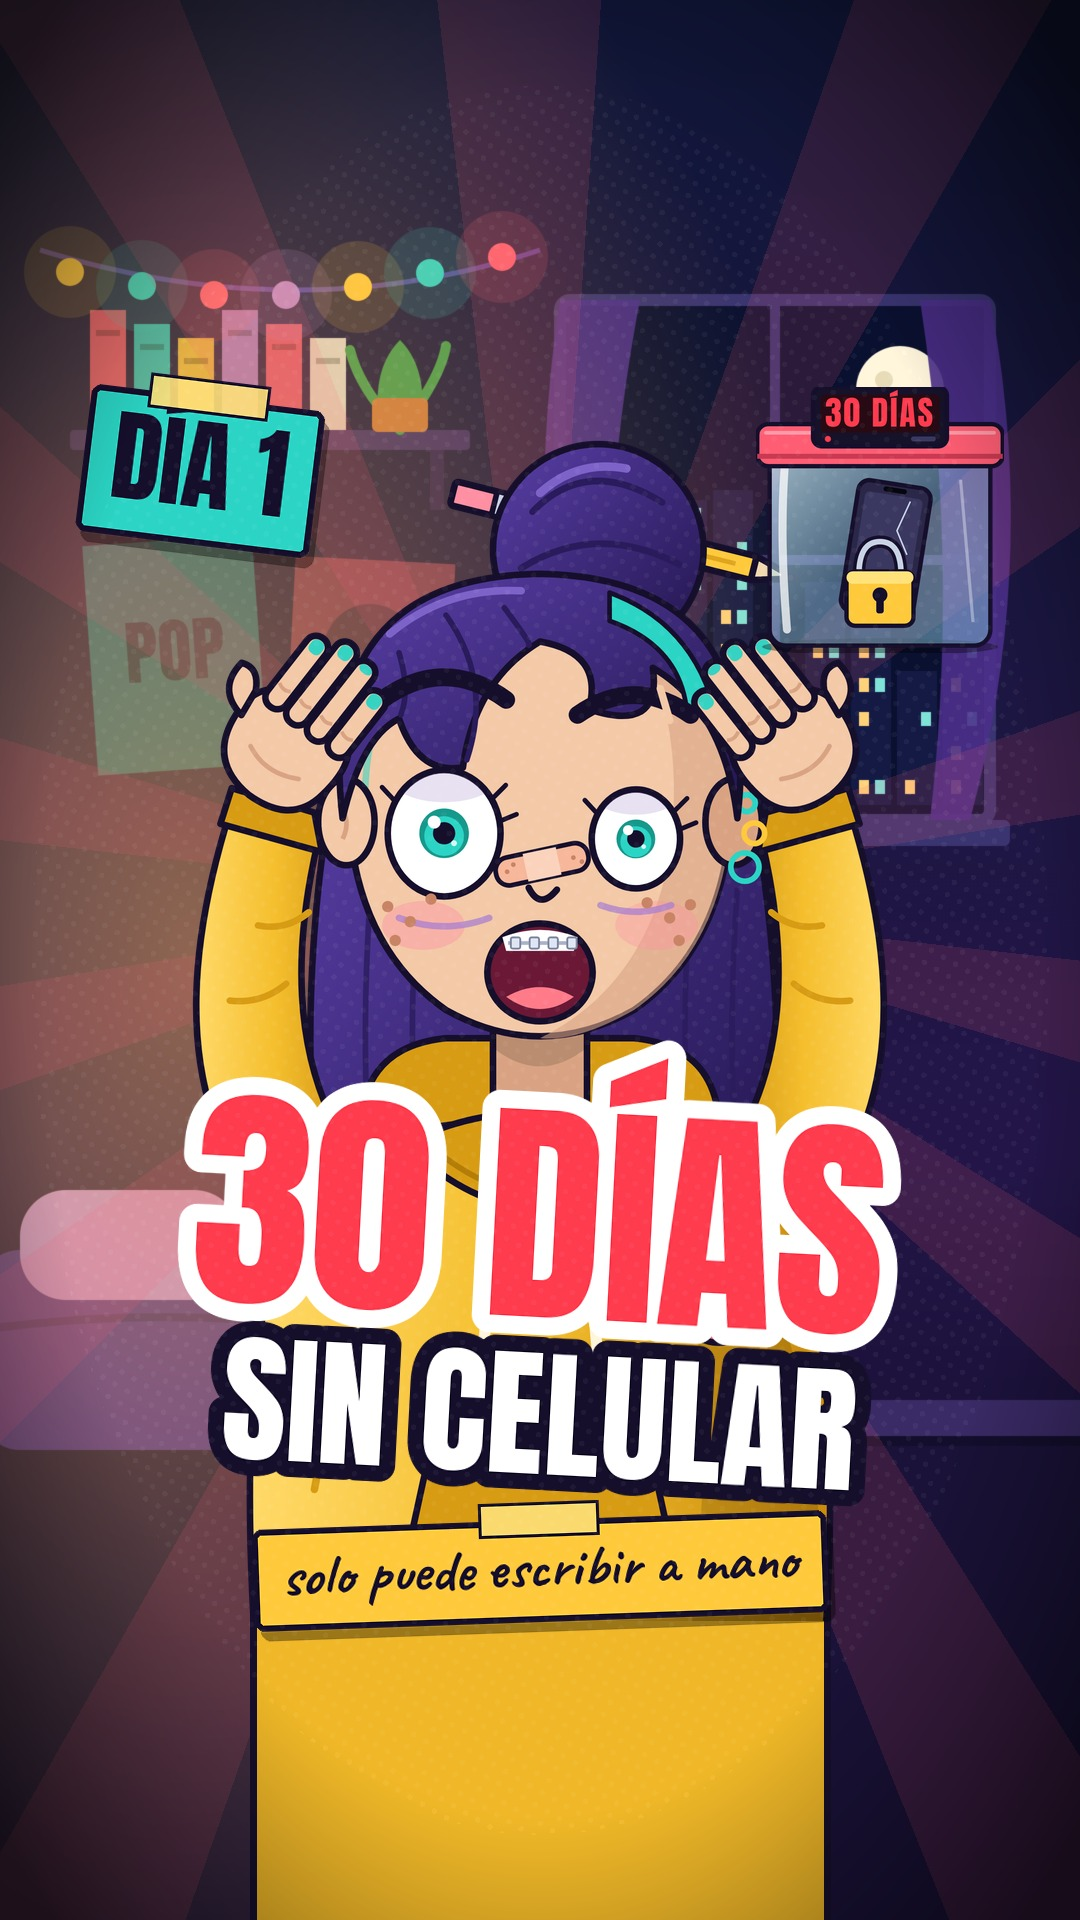
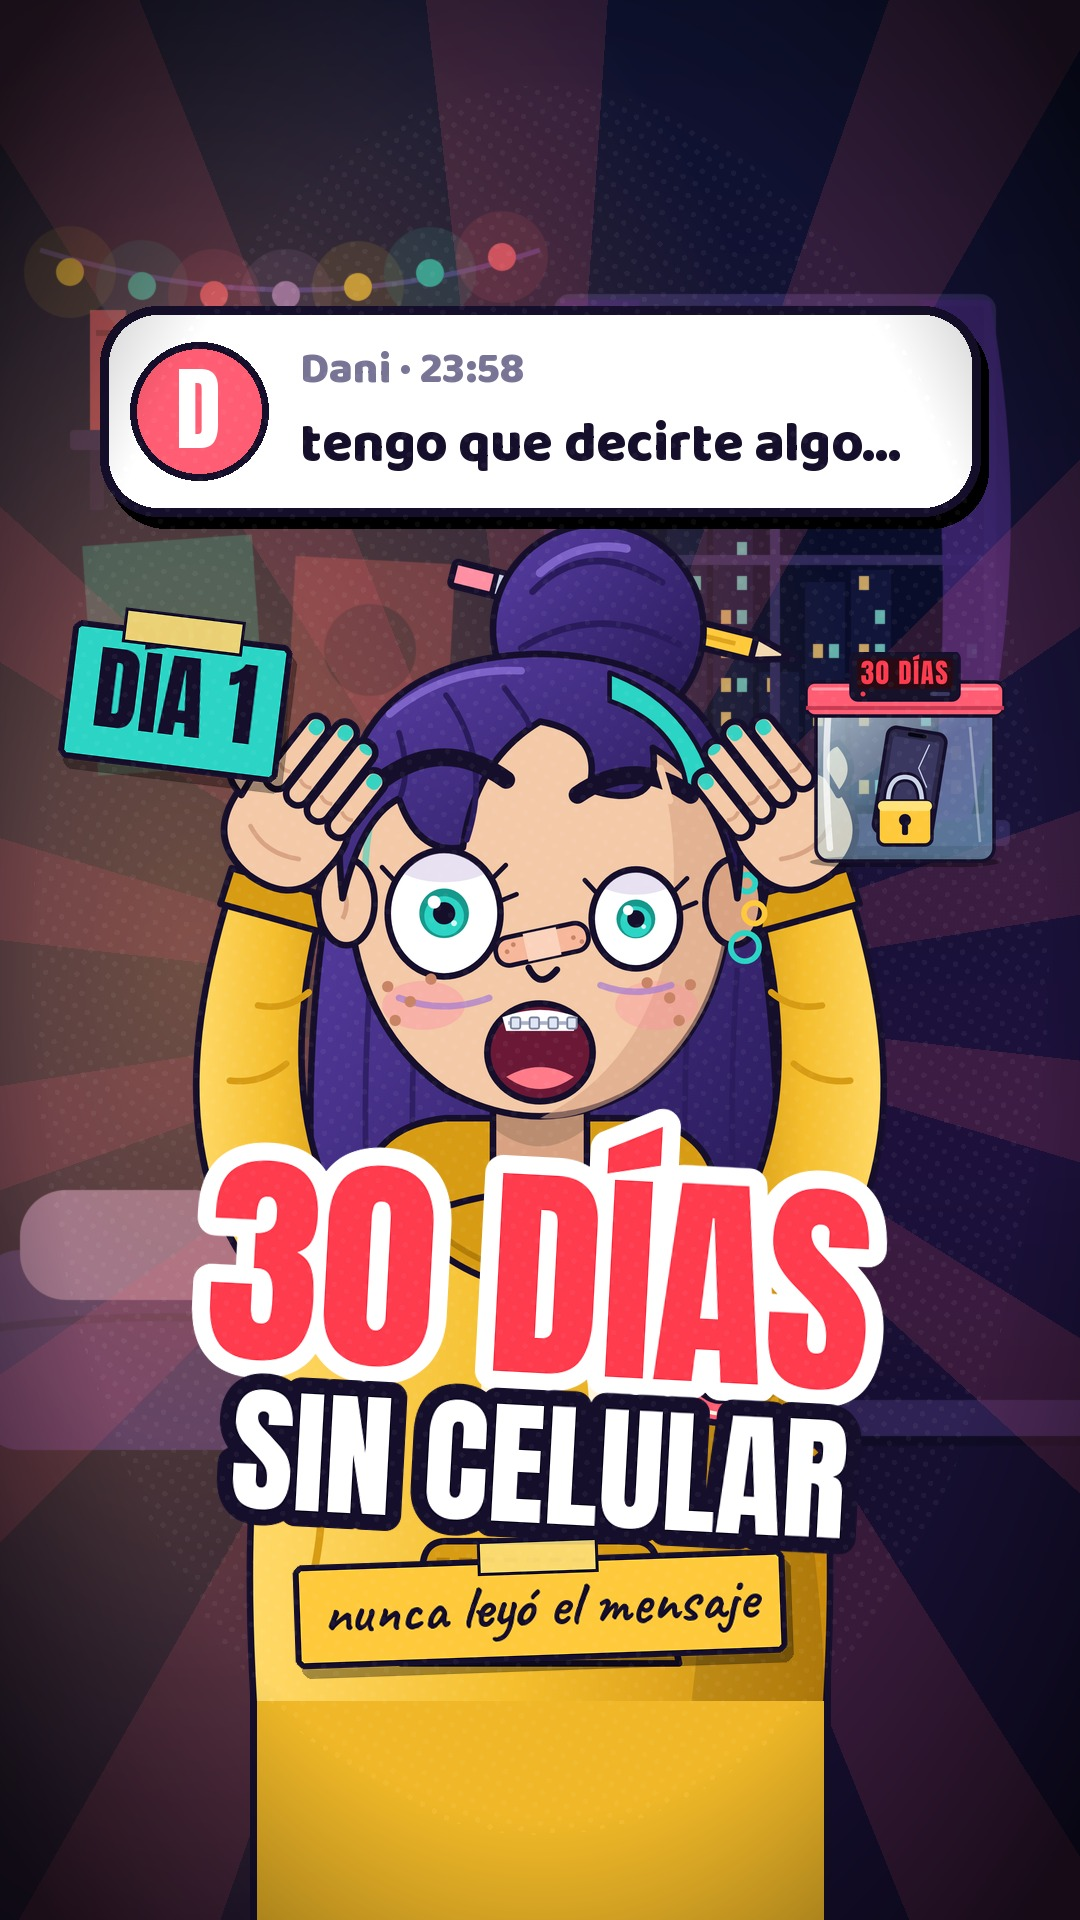
Vale día 1: portada nueva con el mensaje de Dani
Claude-Session: https://claude.ai/code/session_01NdJoArMrGbMDWGBL12rqNM

diff --git a/vale30/portada_v1.py b/vale30/portada_v1.py
@@ -1,11 +1,15 @@
 """Portada 9:16 del Día 1 de «30 días sin celular». Todo lo importante dentro del recorte central 3:4 de la cuadrícula de TikTok (y 240-1680)."""
 import render_v1 as V
 from PIL import ImageDraw
-c = V.bg("bg_cuarto", 0, 0, 1.0, 1.0, 1, .5, .5); V.rayos(c, 1.3, V.ROSA, 540, 900, 34)
-d = ImageDraw.Draw(c); d.rectangle((540 - 290, 1500, 540 + 290, 1930), fill=(240, 184, 40), outline=V.OL, width=7)
-V.put(c, "vale_shock_manos", 540, 1010, .94)
-V.caja_big(c, 880, 520, .62, 0); V.papel(c, "DÍA 1", 200, 470, 100, -7, 1, V.TUR, V.OL, V.F_ANTON)
-V.titulo(c, "30 DÍAS", 540, 1215, 240, V.ROJO, -3, 1, 18, sfill=V.BLANCO); V.titulo(c, "SIN CELULAR", 540, 1415, 140, V.BLANCO, -3, 1, 16)
-V.papel(c, "solo puede escribir a mano", 540, 1570, 58, 2, 1, V.AMA, f=V.F_HAND)
+c = V.bg("bg_cuarto", 0, 0, 1.0, 1.0, 1, .5, .5); V.osc(c, 60); V.rayos(c, 1.3, V.ROSA, 540, 1000, 36)
+d = ImageDraw.Draw(c); d.rectangle((540 - 290, 1560, 540 + 290, 1930), fill=(240, 184, 40), outline=V.OL, width=7)
+V.put(c, "vale_shock_manos", 540, 1090, .94)
+V.caja_big(c, 905, 760, .5, 0); V.papel(c, "DÍA 1", 175, 700, 92, -7, 1, V.TUR, V.OL, V.F_ANTON)
+# la notificación que no pudo leer
+d = ImageDraw.Draw(c); d.rounded_rectangle((108, 318, 988, 528), 58, fill=(0, 0, 0)); d.rounded_rectangle((100, 306, 980, 516), 58, fill=V.BLANCO, outline=V.OL, width=9)
+d.ellipse((130, 342, 268, 480), fill=V.ROSA, outline=V.OL, width=7); d.text((199, 409), "D", font=V.font(V.F_ANTON, 92), fill=V.BLANCO, anchor="mm")
+d.text((300, 370), "Dani · 23:58", font=V.font(V.F_BAL, 44), fill=(120, 116, 150), anchor="lm"); d.text((300, 444), "tengo que decirte algo…", font=V.font(V.F_BAL, 55), fill=V.OL, anchor="lm")
+V.titulo(c, "30 DÍAS", 540, 1275, 230, V.ROJO, -3, 1, 18, sfill=V.BLANCO); V.titulo(c, "SIN CELULAR", 540, 1465, 136, V.BLANCO, -3, 1, 16)
+V.papel(c, "nunca leyó el mensaje", 540, 1608, 60, 2, 1, V.AMA, f=V.F_HAND)
 c.alpha_composite(V.acabado()); c.convert("RGB").save(V.HERE + "/portada_vale_dia1_9x16.jpg", quality=92)
 g = c.convert("RGB").copy(); ImageDraw.Draw(g).rectangle((0, 240, 1079, 1680), outline=(0, 255, 0), width=6); g.save("/home/claude/an/cov.jpg", quality=80)
